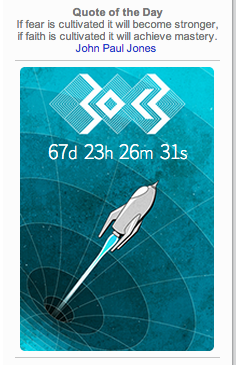
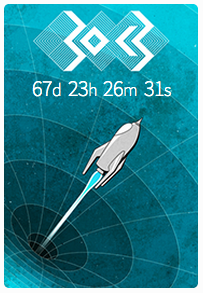
- updated readme - improved screenshot

diff --git a/README.md b/README.md
@@ -1,4 +1,18 @@
 30c3-countdown-banner-180x270
 =============================
 
-Provides a 30c3 countdown banner in 180x270 to be integrated in Wordpress blogs or other sites. Derived from Chaos Engel's full site countdown http://chaos-angel.at/30c3/
+Provides a 30c3 countdown banner in 180x270 to be integrated in Wordpress blogs or other sites. Derived from **Chaos Engel's** full site countdown [http://chaos-angel.at/30c3/](http://chaos-angel.at/30c3/)
+
+## Screenshot
+
+Example screenshot of the banner integrated in a wordpress blog's sidebar.
+
+![image](https://github.com/trailblazr/30c3-countdown-banner-180x270/blob/master/30c3_banner_example.png?raw=true)
+
+## Recommended use
+
+* Add respectively marked code for jQuery lib **(needed for logic!)** to head
+* Add respectively marked code for the banner itself to body e.g. sidebar
+* Add respectively marked code for al the countdown logic to the footer
+
+That's it! have fun and see you all in december.
